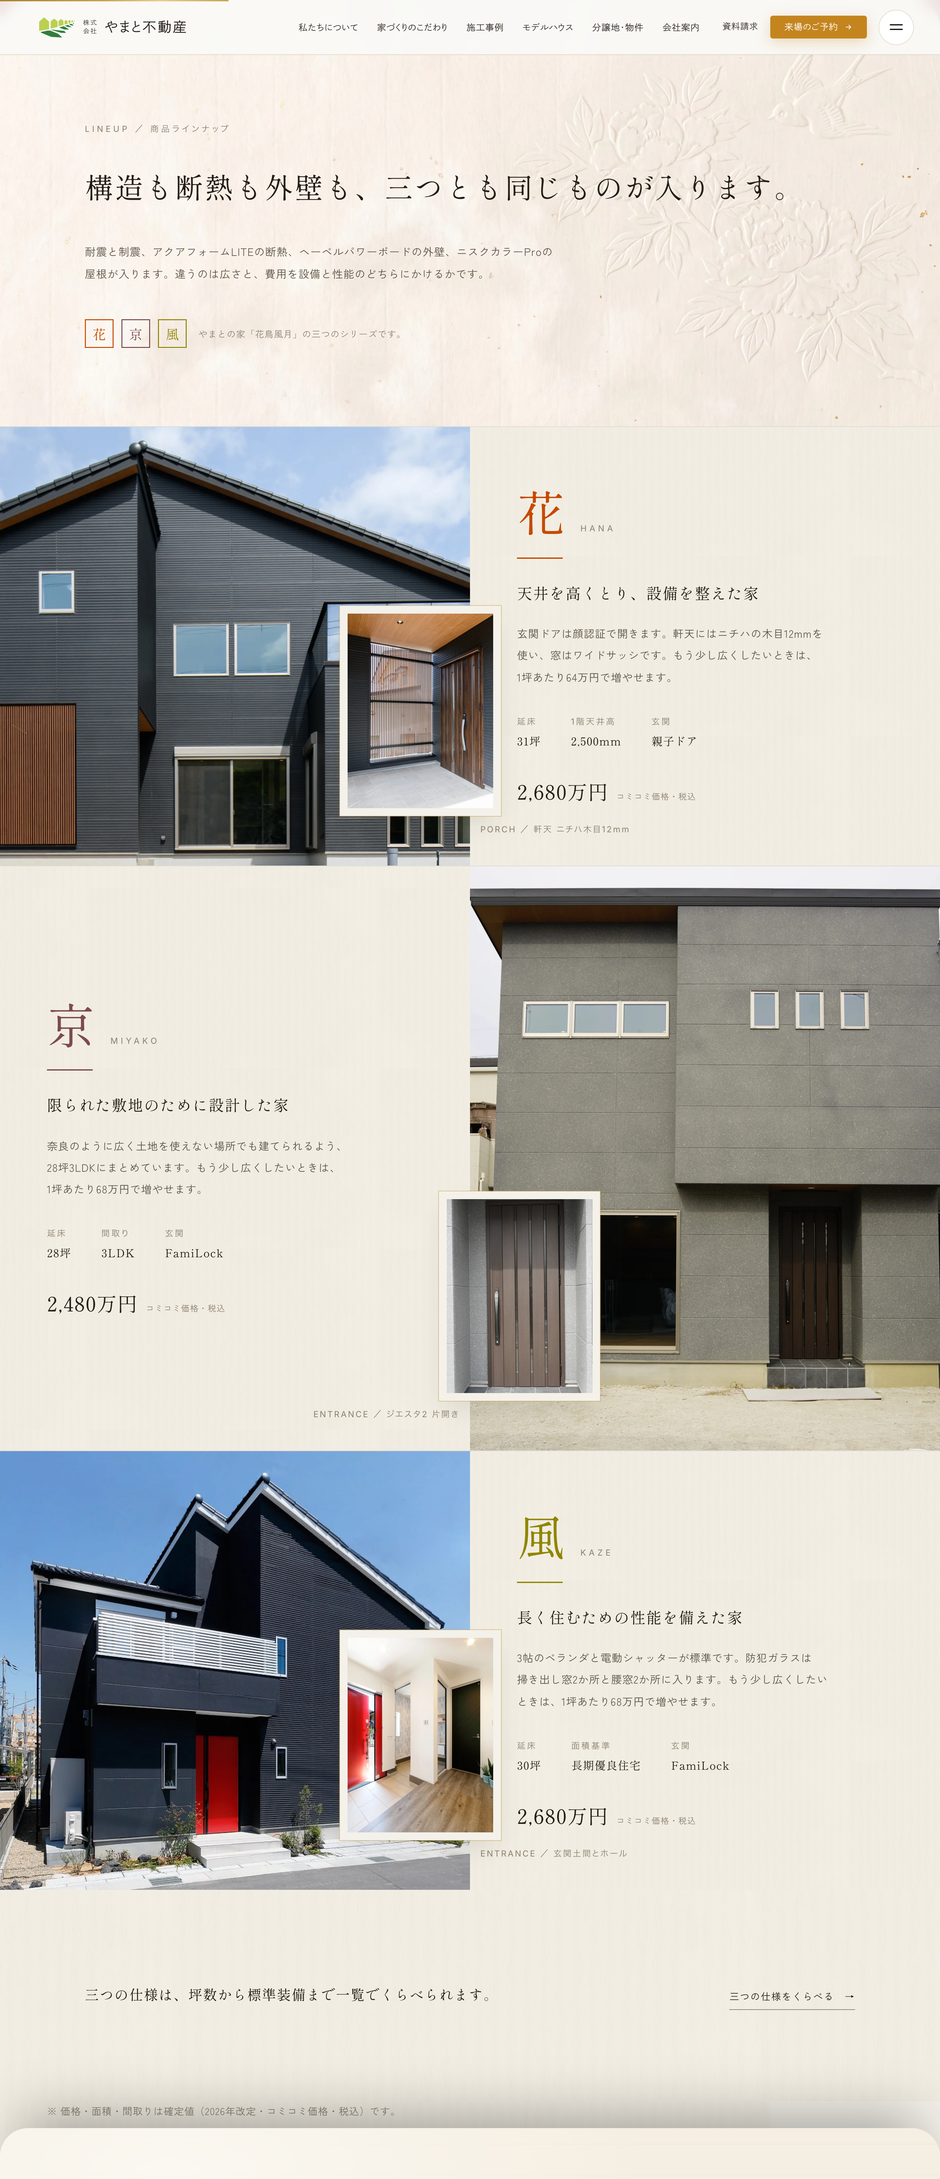
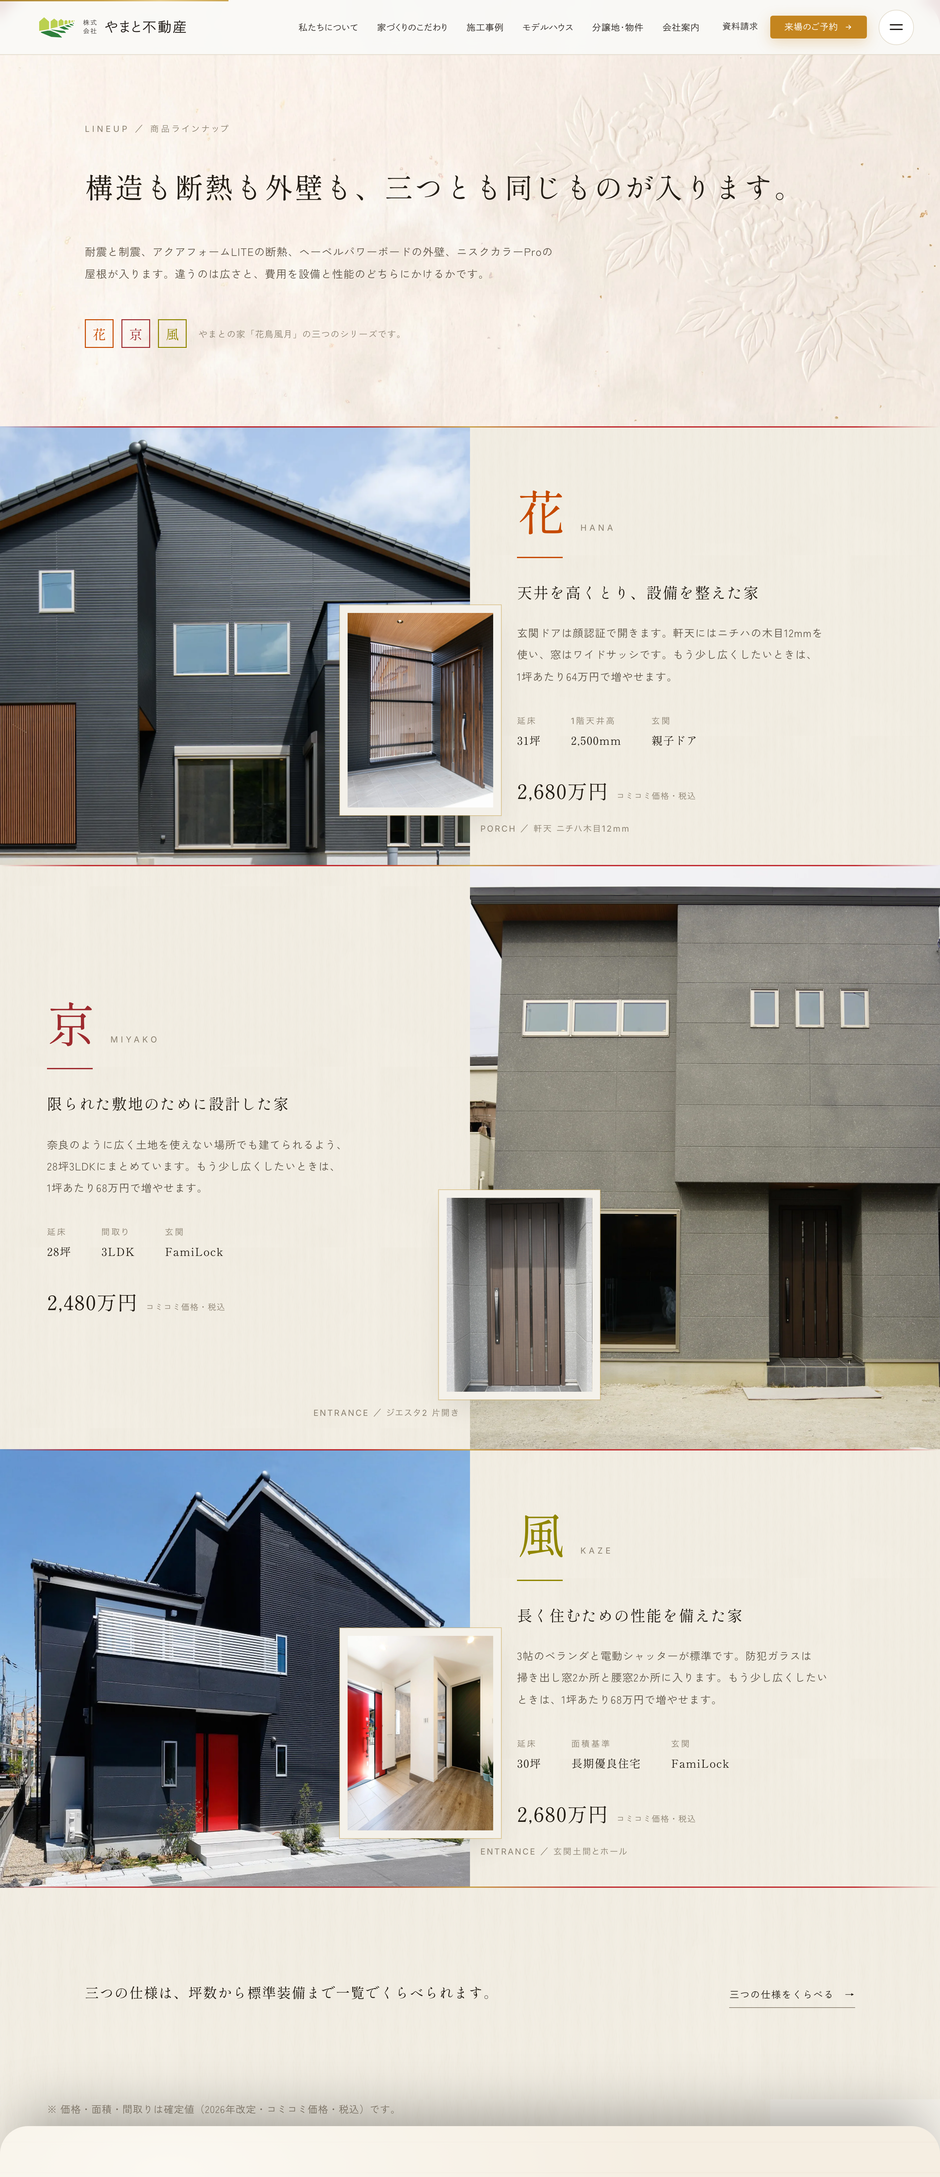
lineup: 帯の境界に紅金の毛罫／京の彩度を上げて褪せを解消
■ 帯の境界＝細い紅金ライン
左右が紅(#BD1B21 .92)、中央に金(#C9A24B)の芯。両端はゼロへ落として断ち切らない。
FV表紙の紅×金と同じ関係を、生成りの面に毛罫として持ち込む。
三つの境界すべてに等しくかかるので序列を生まない。
※ .46 では生成り上で鈍い赤茶になり金と溶けて「金の線」にしか見えなかった（赤み実測50）。
  .92 に上げて紅として立った（同124）。
※ :last-of-type は効かない（帯の後に .lu-cl の div が続くため）。最後の帯を明示指定。

■ 京 #7D4B4F → #9E2B2F
パンフ実測は #7D4B4F（彩度40%）だが、花 #C64A00 と風 #908600 が彩度100%のため、
画面では京だけ灰みがかって褪せて見えていた。色相はほぼ同じまま彩度を72%へ（355°→358°）。
コントラストは 6.22 → 6.37 で改善。
サイトの紅 #BD1B21 は取らない（FVとブランドの主役として温存。花のオレンジとも競合する）。

⚠ 印刷物（パンフレット）の京とは色が一致しなくなる。
   ただし同じ色相であり、コート紙のインキは画面より濃く出るため、
   手元のパンフの見えには #9E2B2F のほうが近い可能性が高い。クライアント確認推奨。

mobile-verify: #lineup 由来の FAIL 0。

diff --git a/index.html b/index.html
@@ -637,7 +637,10 @@
        参照しているので変更しないこと。 */
   .lineup{position:relative;isolation:isolate;overflow:hidden;padding:0;
     --lu-paper:#F4F1EA; --lu-sumi:#241E16; --lu-sumi2:#5C5346; --lu-sumi3:#8A8070;
-    --lu-hana:#C64A00; --lu-kyo:#7D4B4F; --lu-kaze:#908600;
+    --lu-hana:#C64A00; --lu-kyo:#9E2B2F; --lu-kaze:#908600;
+    /* 京 はパンフ実測 #7D4B4F（彩度40%）だが、花・風が彩度100%のため画面では京だけ褪せて見える。
+       色相はほぼ同じまま彩度を72%へ上げた（355°→358°）。コントラストも 6.22→6.37 で改善。
+       サイトの紅 #BD1B21 は FV とブランドの主役なので取らない。※印刷物とは色が一致しない。*/
     --lu-fm:"Shippori Mincho B1","Hiragino Mincho ProN",serif;
     --lu-fg:"Zen Kaku Gothic New",sans-serif;
     --lu-fn:"Inter",sans-serif;
@@ -676,8 +679,18 @@
 
   /* ───── 帯 ───── */
   .lu-band{position:relative;display:grid;grid-template-columns:minmax(0,1fr) minmax(0,1fr);
-    align-items:stretch;border-top:1px solid rgba(36,30,22,.10)}
-  .lu-band:last-of-type{border-bottom:1px solid rgba(36,30,22,.10)}
+    align-items:stretch}
+  /* 帯の境界＝細い紅金の毛罫。三つの境界すべてに等しくかかるので序列を生まない。
+     両端をゼロへ落として断ち切らず、中央で金が最も強い（表紙の紅×金と同じ関係）。*/
+  .lu-band::before,.lu-band--kaze::after{content:"";position:absolute;
+    left:0;right:0;height:2px;z-index:4;pointer-events:none;
+    background:linear-gradient(90deg,
+      rgba(189,27,33,0) 0%, rgba(189,27,33,.92) 9%, rgba(189,27,33,.92) 38%,
+      rgba(201,162,75,1) 50%,
+      rgba(189,27,33,.92) 62%, rgba(189,27,33,.92) 91%, rgba(189,27,33,0) 100%)}
+  .lu-band::before{top:0}
+    /* :last-of-type は効かない（帯の後に .lu-cl の div が続くため）。最後の帯を明示する */
+  .lu-band--kaze::after{bottom:0}
   /* 高さは行側で与える。media に aspect-ratio を置くと stretch で確定した高さから
      幅を逆算して列を超え(実測1022px/列720px)、パネルの文字を覆う。 */
   .lu-band--hana,.lu-band--kaze{min-height:clamp(420px,46vw,660px)}
